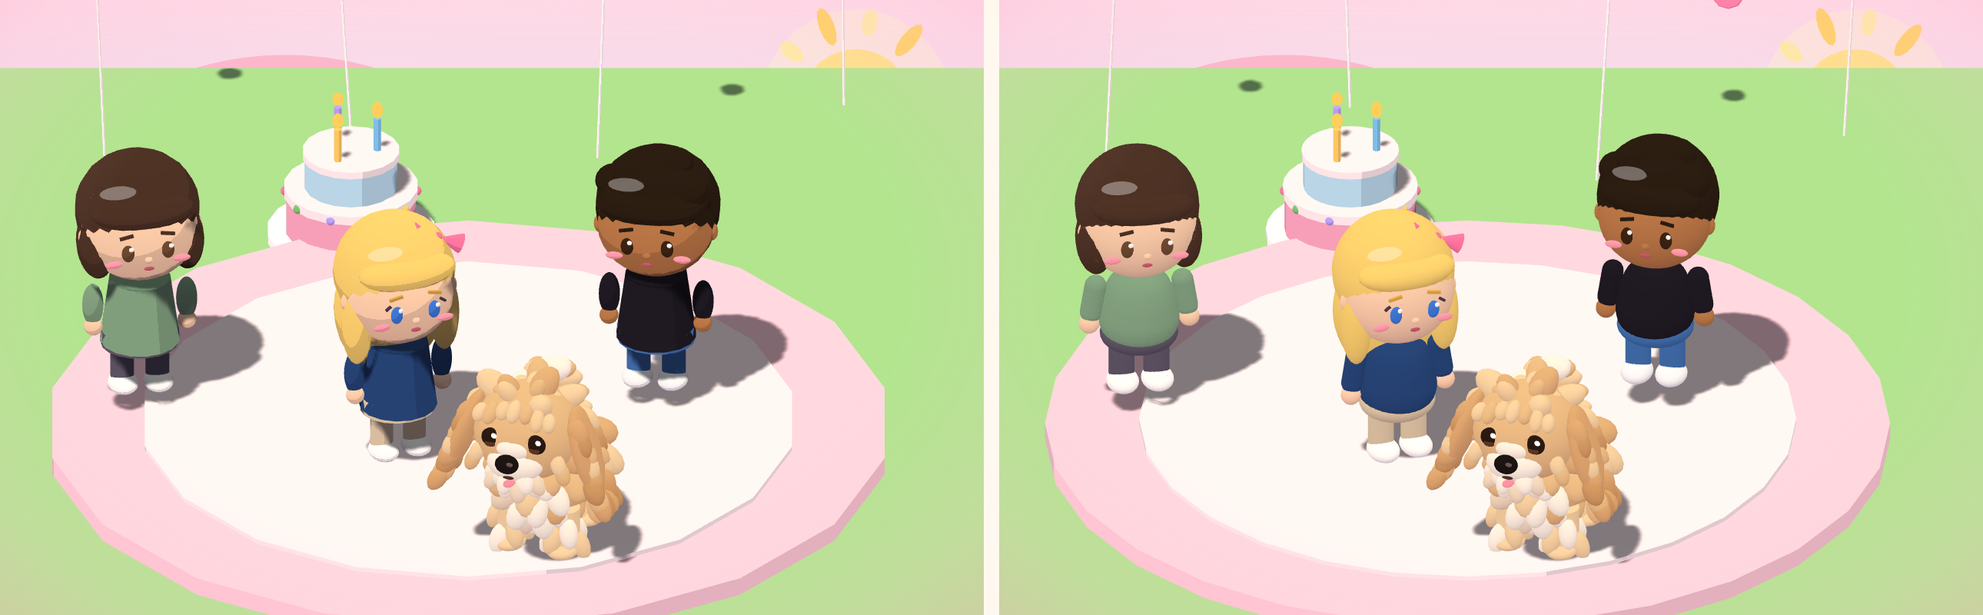
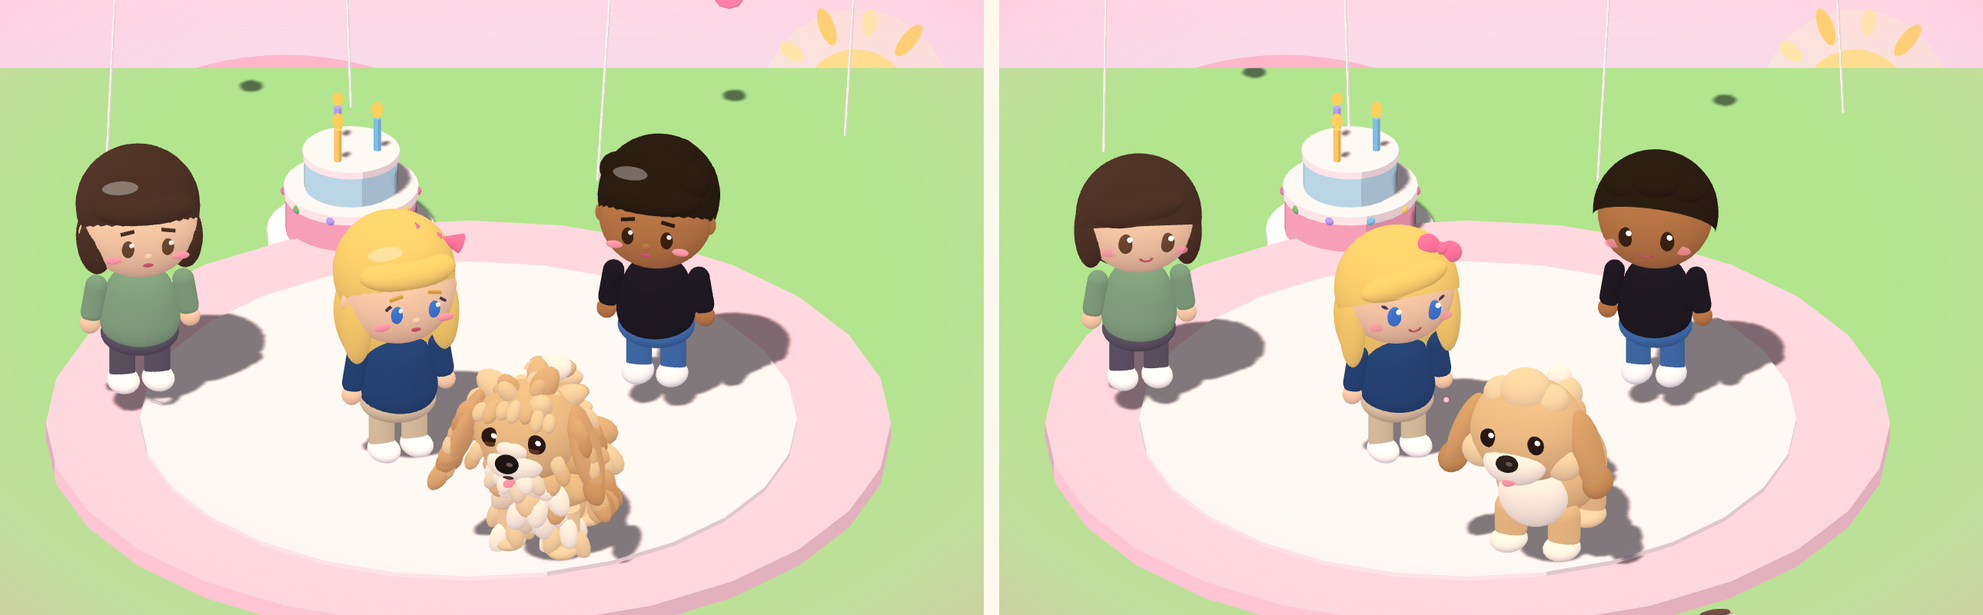
feat(v2): characters redrawn from scratch, cleaner
- People are clean vinyl-toy figures: one smooth head, a single hair
  shell with a tidy hairline, two glossy eyes, soft cheeks and a small
  smile. Noses, brows, ears and shine patches are gone.
- Hairstyles are the shell plus a few big shapes (long with a side
  fringe, bob, wavy top, bun); beanies, glasses, bow and apron rebuilt
  to match.
- Luca is rebuilt from a dozen rounded shapes instead of hundreds of
  fur tufts; the fur-tuft helpers are removed. Rig names are unchanged,
  so animation, petting, the bandana and the recoloured park dogs all
  still work.

Claude-Session: https://claude.ai/code/session_01B3Vzwri1qVRYoc2bcu2UC1

diff --git a/v2/index.html b/v2/index.html
@@ -680,44 +680,47 @@ function softSkin(g) {
   return g;
 }
 
-/* ---------------- people: chibi proportions, big head, tiny body ---------------- */
+/* ---------------- people: clean vinyl-toy figures. One smooth head, one hair shell, a simple face, a bean body ---------------- */
+// the hair shell: a sphere cap tipped back, so it makes a tidy hairline across the forehead and reaches the nape
+const G_CAP = geo('haircap', () => new THREE.SphereGeometry(0.5, 32, 14, 0, TAU, 0, Math.PI * 0.56));
+const G_SMILE = geo('smile', () => new THREE.TorusGeometry(0.5, 0.11, 6, 14, Math.PI));
+const G_BAND = geo('band', () => new THREE.TorusGeometry(0.5, 0.07, 8, 28));
 function makePerson(o) {
   const g = new THREE.Group(), body = grp(g);
   const skin = o.skin || '#f9d1b0', hair = o.hair || '#6b4a32', top = o.top || '#7f93b3', bot = o.bottom || top, shoe = o.shoe || '#fdfdfd';
+  const bare = o.style === 'dress' || o.style === 'crop';
+  // legs and shoes
   const legL = grp(body, -0.075, 0.24, 0), legR = grp(body, 0.075, 0.24, 0);
-  [legL, legR].forEach(L => { mk(capsule(0.056, 0.27), o.style === 'dress' ? skin : bot, null, [0, -0.1, 0], L); mk(G_SPH, shoe, [0.14, 0.09, 0.19], [0, -0.205, 0.03], L); });
+  [legL, legR].forEach(L => { mk(capsule(0.054, 0.27), o.style === 'dress' ? skin : bot, null, [0, -0.1, 0], L); mk(G_SPH, shoe, [0.135, 0.09, 0.19], [0, -0.205, 0.03], L); });
+  // body: a dress, a crop top over leggings, or a top over pants
   if (o.style === 'dress') mk(G_SKIRT, top, [1, 1, 1], [0, 0.36, 0], body);
-  else if (o.style === 'crop') { mk(G_TORSO, skin, [0.8, 0.9, 0.8], [0, 0.37, 0], body); mk(G_TORSO, top, [1, 0.62, 1], [0, 0.44, 0], body); mk(G_HEAD, bot, [0.32, 0.18, 0.29], [0, 0.26, 0], body); }
-  else { mk(G_TORSO, top, [1, 1, 1], [0, 0.385, 0], body); mk(G_HEAD, bot, [0.335, 0.17, 0.3], [0, 0.25, 0], body); }
-  const armL = grp(body, -0.185, 0.5, 0), armR = grp(body, 0.185, 0.5, 0);
-  [armL, armR].forEach((A, i) => { const s = grp(A); s.rotation.z = (i ? 1 : -1) * 0.16; mk(capsule(0.047, 0.22), o.style === 'dress' || o.style === 'crop' ? skin : top, null, [0, -0.075, 0], s); mk(G_SPH, skin, [0.088, 0.088, 0.088], [0, -0.19, 0.008], s); });
-  const head = grp(body, 0, 0.78, 0);
+  else if (o.style === 'crop') { mk(G_TORSO, skin, [0.78, 0.9, 0.78], [0, 0.37, 0], body); mk(G_TORSO, top, [0.95, 0.62, 0.95], [0, 0.44, 0], body); mk(G_HEAD, bot, [0.31, 0.18, 0.28], [0, 0.26, 0], body); }
+  else { mk(G_TORSO, top, [0.95, 1, 0.95], [0, 0.385, 0], body); mk(G_HEAD, bot, [0.32, 0.17, 0.29], [0, 0.25, 0], body); }
+  if (o.apron) mk(G_HEAD, o.apron, [0.24, 0.28, 0.08], [0, 0.35, 0.13], body);
+  // arms end in little mitten hands
+  const armL = grp(body, -0.178, 0.5, 0), armR = grp(body, 0.178, 0.5, 0);
+  [armL, armR].forEach((A, i) => { const s = grp(A); s.rotation.z = (i ? 1 : -1) * 0.16; mk(capsule(0.045, 0.22), bare ? skin : top, null, [0, -0.075, 0], s); mk(G_SPH, skin, [0.086, 0.086, 0.086], [0, -0.19, 0.006], s); });
+  // head and face: two glossy eyes, soft cheeks, a small smile. Nothing else
+  const head = grp(body, 0, 0.78, 0), F = { noShadow: true };
   mk(G_HEAD, skin, [0.5, 0.47, 0.47], [0, 0, 0], head);
   [-1, 1].forEach(s => {
-    mk(G_SPH, o.eye || INK, [0.055, 0.08, 0.03], [s * 0.085, -0.005, 0.222], head, { noShadow: true });
-    mk(G_SPH, '#ffffff', [0.022, 0.022, 0.012], [s * 0.085 + 0.013, 0.02, 0.236], head, { noShadow: true });
-    mk(G_SPH, '#ff9fb2', [0.075, 0.035, 0.02], [s * 0.145, -0.065, 0.2], head, { noShadow: true });
+    mk(G_SPH, o.eye || INK, [0.066, 0.092, 0.03], [s * 0.09, -0.012, 0.217], head, F);
+    mk(G_SPH, '#ffffff', [0.026, 0.026, 0.012], [s * 0.09 + 0.014, 0.014, 0.231], head, { noShadow: true, glow: true });
+    mk(G_SPH, '#ff9fb2', [0.075, 0.042, 0.016], [s * 0.152, -0.072, 0.176], head, { noShadow: true, alpha: 0.75 });
+    if (o.lashes) mk(G_SPH, INK, [0.04, 0.013, 0.012], [s * 0.128, 0.03, 0.2], head, F).rotation.z = s * 0.55;
   });
-  mk(G_SPH, '#c2566e', [0.045, 0.018, 0.012], [0, -0.085, 0.228], head, { noShadow: true });
-  // little details the low camera now shows: nose, brows, ears, lashes, hair shine
-  mk(G_SPH, skin, [0.035, 0.028, 0.03], [0, -0.04, 0.232], head, { noShadow: true });
-  [-1, 1].forEach(s => {
-    const br = mk(G_BOX, o.brow || hair, [0.06, 0.012, 0.012], [s * 0.088, 0.075, 0.222], head, { noShadow: true }); br.rotation.z = s * -0.18;
-    mk(G_SPH, skin, [0.06, 0.09, 0.05], [s * 0.235, -0.02, 0.01], head, { noShadow: true });
-    if (o.lashes) { const l = mk(G_BOX, INK, [0.03, 0.01, 0.01], [s * 0.125, 0.035, 0.224], head, { noShadow: true }); l.rotation.z = s * -0.6; }
-  });
-  mk(G_SPH, '#ffffff', [0.16, 0.05, 0.08], [-0.1, 0.24, 0.12], head, { noShadow: true, glow: true, alpha: 0.35 });
-  // hair: cap + fringe + style extras
-  mk(G_HEAD, hair, [0.53, 0.52, 0.53], [0, 0.06, -0.05], head);
-  mk(G_SPH, hair, [0.44, 0.15, 0.22], [0, 0.14, 0.12], head);
-  if (o.hairStyle === 'long') { mk(G_HEAD, hair, [0.5, 0.62, 0.32], [0, -0.13, -0.11], head); [-1, 1].forEach(s => mk(G_SPH, hair, [0.13, 0.36, 0.15], [s * 0.2, -0.13, 0.03], head)); }
-  if (o.hairStyle === 'bun') mk(G_SPH, hair, [0.2, 0.2, 0.2], [0, 0.29, -0.06], head);
-  if (o.hairStyle === 'bob') [-1, 1].forEach(s => mk(G_SPH, hair, [0.16, 0.3, 0.3], [s * 0.19, -0.07, -0.01], head));
-  if (o.hairStyle === 'fluffy') [[-0.1, 0.25, 0.02], [0.08, 0.27, -0.04], [0.16, 0.2, 0.06], [-0.18, 0.18, -0.02]].forEach(p => mk(G_SPH, hair, [0.16, 0.14, 0.16], p, head));
-  if (o.bow) { const b = grp(head, 0.17, 0.22, 0.02); b.rotation.z = -0.4; [-1, 1].forEach(s => { const c = mk(G_CONE, o.bow, [0.09, 0.12, 0.06], [s * 0.06, 0, 0], b); c.rotation.z = s * Math.PI / 2; }); mk(G_SPH, o.bow, [0.05, 0.05, 0.05], [0, 0, 0], b); }
-  if (o.glasses) [-1, 1].forEach(s => { const r = mk(geo('ring', () => new THREE.TorusGeometry(0.5, 0.12, 6, 16)), INK, [0.09, 0.09, 0.09], [s * 0.085, 0, 0.235], head, { noShadow: true }); });
-  if (o.beanie) { mk(G_SPH, o.beanie, [0.57, 0.36, 0.57], [0, 0.21, -0.04], head); mk(G_CYL, '#ffffff', [0.57, 0.08, 0.57], [0, 0.13, -0.03], head, { noShadow: true }); mk(G_SPH, '#ffffff', [0.15, 0.15, 0.15], [0, 0.4, -0.05], head); }
-  if (o.apron) mk(G_BOX, o.apron, [0.24, 0.26, 0.02], [0, 0.34, 0.16], body);
+  const smile = mk(G_SMILE, '#b5566b', [0.052, 0.034, 0.05], [0, -0.078, 0.224], head, F); smile.rotation.z = Math.PI;
+  // hair: one shell, plus a few big clean shapes per style
+  const style = o.hairStyle, swept = style === 'long' || style === 'bob' || style === 'bun';
+  const cap = mk(G_CAP, hair, [0.545, 0.525, 0.53], [0, 0.005, -0.005], head); cap.rotation.x = swept ? -0.5 : -0.72; // short cuts sit higher off the forehead
+  if (swept) { const fr = mk(G_HEAD, hair, [0.4, 0.13, 0.15], [-0.03, 0.125, 0.172], head); fr.rotation.z = 0.2; }
+  if (style === 'long') { mk(G_HEAD, hair, [0.5, 0.62, 0.3], [0, -0.14, -0.1], head); [-1, 1].forEach(s => mk(G_HEAD, hair, [0.11, 0.36, 0.14], [s * 0.218, -0.14, 0.035], head)); }
+  if (style === 'bob') { mk(G_HEAD, hair, [0.5, 0.42, 0.3], [0, -0.07, -0.09], head); [-1, 1].forEach(s => mk(G_HEAD, hair, [0.13, 0.3, 0.3], [s * 0.21, -0.07, -0.01], head)); }
+  if (style === 'bun' && !o.beanie) mk(G_HEAD, hair, [0.2, 0.2, 0.2], [0, 0.3, -0.07], head);
+  if (style === 'fluffy' && !o.beanie) [[-0.12, 0.185, 0.1, 0.2], [0.02, 0.215, 0.11, 0.23], [0.15, 0.185, 0.09, 0.19]].forEach(([x, y, z, r]) => mk(G_HEAD, hair, [r, r * 0.55, r * 0.9], [x, y, z], head)); // a soft wavy top, not a quiff tower
+  if (o.bow) { const b = grp(head, 0.165, 0.205, 0.085); b.rotation.set(-0.3, 0.3, -0.45); [-1, 1].forEach(s => mk(G_SPH, o.bow, [0.115, 0.09, 0.05], [s * 0.062, 0, 0], b)); mk(G_SPH, o.bow, [0.05, 0.055, 0.055], [0, 0, 0.012], b); }
+  if (o.glasses) { [-1, 1].forEach(s => mk(G_BAND, INK, [0.115, 0.115, 0.06], [s * 0.09, -0.01, 0.238], head, F)); mk(G_SPH, INK, [0.07, 0.014, 0.014], [0, -0.005, 0.245], head, F); }
+  if (o.beanie) { const b = grp(head, 0, 0.03, -0.01); b.rotation.x = -0.28; mk(G_CAP, o.beanie, [0.575, 0.56, 0.565], [0, 0, 0], b).scale.y = 0.5; mk(G_CAP, o.beanie, [0.575, 0.56, 0.565], [0, 0, 0], b); const band = mk(G_BAND, '#ffffff', [0.55, 0.555, 0.5], [0, 0.085, 0], b, F); band.rotation.x = Math.PI / 2; mk(G_SPH, '#ffffff', [0.14, 0.14, 0.14], [0, 0.3, 0], b); }
   g.userData = { kind: 'person', body, head, legL, legR, armL, armR, walk: 0, bounce: 0 };
   return softSkin(mergeStatic(g));
 }
@@ -728,82 +731,31 @@ const LOOK = {
 };
 function makeAnnette(outfitKey) { return makePerson(LOOK.annette(OUTFITS[outfitKey] || OUTFITS.office)); }
 
-/* ---------------- Luca the cavoodle: golden caramel shag, a cream bib and beard, a fringe over the eyes and long feathered ears ---------------- */
-const G_CURL = geo('curl', () => new THREE.SphereGeometry(0.5, 10, 8));
-// evenly spread points over a unit sphere (fibonacci), used to cover a shape in fur
-function fibPts(n) { const o = [], ga = Math.PI * (3 - Math.sqrt(5)); for (let i = 0; i < n; i++) { const y = 1 - (i + 0.5) / n * 2, r = Math.sqrt(1 - y * y), a = i * ga; o.push([Math.cos(a) * r, y, Math.sin(a) * r]); } return o; }
-const UP = new THREE.Vector3(0, 1, 0), WISP_D = new THREE.Vector3();
-// long soft strands that point outward and droop with gravity, so the coat reads shaggy rather than curly
-function wisps(parent, c, r, n, cols, size, droop, skip, seed) {
-  fibPts(n).forEach((p, i) => {
-    if (skip && skip(p)) return;
-    const h = hsh(i, n, seed || 5), s = size * (0.8 + h * 0.45), col = cols[Math.floor(hsh(i, n, 3) * cols.length)];
-    WISP_D.set(p[0] + (hsh(i, n, 9) - 0.5) * 0.5, p[1] - droop, p[2] + (hsh(i, n, 11) - 0.5) * 0.5).normalize();
-    const t = mk(G_CURL, col, [s * 0.78, s * 1.25, s * 0.8], [c[0] + p[0] * r[0] + WISP_D.x * s * 0.12, c[1] + p[1] * r[1] + WISP_D.y * s * 0.12, c[2] + p[2] * r[2] + WISP_D.z * s * 0.12], parent, { noShadow: true });
-    t.quaternion.setFromUnitVectors(UP, WISP_D);
-  });
-}
-function strand(parent, col, pos, dir, len, w) {
-  WISP_D.set(dir[0], dir[1], dir[2]).normalize();
-  const t = mk(G_CURL, col, [Math.max(w, len * 0.55), len, Math.max(w, len * 0.55) * 1.1], [pos[0] + WISP_D.x * len * 0.4, pos[1] + WISP_D.y * len * 0.4, pos[2] + WISP_D.z * len * 0.4], parent, { noShadow: true });
-  t.quaternion.setFromUnitVectors(UP, WISP_D); return t;
-}
+/* ---------------- Luca the cavoodle: a clean, rounded caramel pup with a cream bib and muzzle, a fluffy topknot, long floppy ears and a plume of a tail ---------------- */
 function buildLuca() {
   const g = new THREE.Group(), body = grp(g); body.name = 'body';
-  const A = '#e6bd88', a = '#f1d2a4', b = '#fbf3e6', d = '#dcaa74', r = '#cd9a64', C = [A, A, a, '#e0b27c'];
-  // compact torso under a shaggy coat, with a cream bib down the chest
-  mk(G_SPH, A, [0.46, 0.4, 0.56], [0, 0.32, -0.02], body);
-  wisps(body, [0, 0.34, -0.02], [0.19, 0.16, 0.24], 34, C, 0.15, 0.7);
-  wisps(body, [0, 0.3, 0.2], [0.11, 0.13, 0.06], 18, [b, b, '#efdcc2'], 0.12, 1.3, p => p[2] < -0.3, 6);
-  const legs = [];
-  [[-0.12, 0.15], [0.12, 0.15], [-0.12, -0.17], [0.12, -0.17]].forEach(([x, z], k) => {
-    const L = grp(body, x, 0.2, z);
-    mk(G_CYL, a, [0.13, 0.18, 0.13], [0, -0.07, 0], L);
-    for (let i = 0; i < 6; i++) { const an = i / 6 * TAU + k; strand(L, i % 2 ? a : (k < 2 ? b : A), [Math.cos(an) * 0.05, -0.02 - (i % 3) * 0.04, Math.sin(an) * 0.05], [Math.cos(an) * 0.4, -1, Math.sin(an) * 0.4], 0.14, 0.07); }
-    mk(G_SPH, a, [0.14, 0.07, 0.16], [0, -0.17, 0.03], L);
-    legs.push(L);
+  const A = '#e8bf8a', L = '#f3d6aa', C = '#fdf5e8', D = '#d6a46c', T = '#c48f5a', F = { noShadow: true };
+  mk(G_HEAD, A, [0.46, 0.4, 0.6], [0, 0.31, -0.02], body);
+  mk(G_HEAD, C, [0.31, 0.3, 0.24], [0, 0.29, 0.2], body);
+  const legs = [[-0.12, 0.15], [0.12, 0.15], [-0.12, -0.17], [0.12, -0.17]].map(([x, z], k) => {
+    const leg = grp(body, x, 0.2, z);
+    mk(capsule(0.07, 0.24), A, null, [0, -0.07, 0], leg); mk(G_SPH, k < 2 ? C : L, [0.16, 0.09, 0.19], [0, -0.165, 0.03], leg);
+    return leg;
   });
-  // head: a round dome under a mop of shaggy hair
-  const head = grp(body, 0, 0.64, 0.28);
-  mk(G_SPH, A, [0.47, 0.43, 0.43], [0, 0, 0], head);
-  wisps(head, [0, 0.02, -0.02], [0.2, 0.18, 0.17], 28, C, 0.13, 0.3, p => p[2] > 0.3 && p[1] < 0.55);
-  wisps(head, [0, 0.17, 0.03], [0.1, 0.04, 0.08], 8, [a, A, '#f0cf9f'], 0.08, -0.4, null, 7);
-  // short cream muzzle with a long scruffy beard
-  mk(G_SPH, b, [0.25, 0.16, 0.17], [0, -0.08, 0.16], head);
-  mk(G_SPH, b, [0.16, 0.1, 0.1], [0, 0.0, 0.18], head);
-  wisps(head, [0, -0.15, 0.15], [0.1, 0.04, 0.06], 16, [b, b, '#efdcc2'], 0.09, 1.4, p => p[2] < -0.3, 8);
-  mk(G_SPH, '#1b1513', [0.105, 0.085, 0.075], [0, -0.035, 0.265], head, { noShadow: true });
-  mk(G_SPH, '#6a5a58', [0.03, 0.02, 0.01], [0.025, -0.015, 0.3], head, { noShadow: true });
-  mk(G_SPH, '#4a2e28', [0.05, 0.012, 0.02], [0, -0.11, 0.245], head, { noShadow: true });
-  const tongue = mk(G_SPH, '#ff8fa3', [0.05, 0.024, 0.06], [0, -0.14, 0.23], head, { noShadow: true });
+  const head = grp(body, 0, 0.64, 0.27);
+  mk(G_HEAD, A, [0.5, 0.45, 0.45], [0, 0, 0], head);
+  [[0, 0.2, 0.03, 0.22], [-0.11, 0.165, 0.02, 0.16], [0.11, 0.165, 0.02, 0.16]].forEach(([x, y, z, r]) => mk(G_HEAD, L, [r, r * 0.85, r], [x, y, z], head));
   [-1, 1].forEach(s => {
-    // soft dark brown eyes peeking out under the fringe
-    mk(G_SPH, '#2a1a12', [0.09, 0.09, 0.05], [s * 0.1, 0.035, 0.18], head, { noShadow: true });
-    mk(G_SPH, '#5a3a26', [0.05, 0.03, 0.01], [s * 0.1, 0.015, 0.2], head, { noShadow: true });
-    mk(G_SPH, '#ffffff', [0.026, 0.026, 0.01], [s * 0.1 + 0.02, 0.058, 0.205], head, { noShadow: true, glow: true });
-    mk(G_SPH, '#e8a58a', [0.06, 0.028, 0.02], [s * 0.15, -0.05, 0.13], head, { noShadow: true, alpha: 0.45 });
-    // caramel cheeks and brows framing the cream muzzle
-    for (let i = 0; i < 2; i++) strand(head, i % 2 ? A : a, [s * (0.17 + i * 0.02), -0.04 - i * 0.04, 0.12], [s * 0.4, -1, 0.3], 0.1, 0.06);
+    mk(G_HEAD, L, [0.17, 0.16, 0.15], [s * 0.185, -0.095, 0.07], head);
+    mk(G_SPH, '#2a1a12', [0.078, 0.088, 0.04], [s * 0.105, 0.035, 0.198], head, F);
+    mk(G_SPH, '#ffffff', [0.026, 0.026, 0.012], [s * 0.105 + 0.017, 0.06, 0.218], head, { noShadow: true, glow: true });
   });
-  // the fringe: wispy strands falling over the brow
-  for (let i = 0; i < 7; i++) { const x = -0.15 + i * 0.05; strand(head, [a, A, '#f0cf9f'][i % 3], [x, 0.2 - Math.abs(x) * 0.25, 0.14], [x * 1.5, -0.7, 1], 0.09 + (i % 2) * 0.02, 0.06); }
-  // long feathered Cavalier ears that blend into the head fluff
-  const ears = [-1, 1].map(s => {
-    const e = grp(head, s * 0.2, 0.12, 0.0); e.rotation.z = s * 0.15;
-    mk(G_SPH, d, [0.1, 0.42, 0.22], [s * 0.02, -0.18, 0.01], e);
-    for (let i = 0; i < 14; i++) {
-      const y = -0.02 - (i % 7) * 0.055, z = (i < 7 ? 0.05 : -0.05) + (hsh(i, s + 3, 2) - 0.5) * 0.04;
-      strand(e, [d, r, A, a][i % 4], [s * 0.02, y, z], [s * 0.25, -1, (i < 7 ? 0.2 : -0.2)], 0.13, 0.08);
-    }
-    for (let i = 0; i < 4; i++) strand(e, [r, d][i % 2], [s * 0.03, -0.38, -0.06 + i * 0.04], [s * 0.2, -1, -0.15 + i * 0.1], 0.13, 0.06);
-    return e;
-  });
-  // feathered plume tail, carried high and flaring at the tip
-  const tail = grp(body, 0, 0.44, -0.27); tail.rotation.x = -0.35;
-  [[0, 0.02, 0], [0, 0.09, -0.01], [0, 0.16, 0.02], [0, 0.21, 0.08], [0, 0.23, 0.15], [0, 0.22, 0.21]].forEach((p, i) => {
-    mk(G_CURL, i % 2 ? a : A, [0.1, 0.1, 0.1], p, tail, { noShadow: true });
-    [-1, 1].forEach(s => strand(tail, i > 3 ? b : i % 2 ? A : a, p, [s * 0.9, -0.3, 0.2], 0.12 + i * 0.015, 0.05));
-  });
+  mk(G_HEAD, C, [0.28, 0.19, 0.2], [0, -0.085, 0.16], head);
+  mk(G_SPH, '#2a1f1c', [0.1, 0.075, 0.07], [0, -0.04, 0.262], head, F); mk(G_SPH, '#6a5a58', [0.03, 0.02, 0.01], [0.022, -0.02, 0.296], head, F);
+  const tongue = mk(G_SPH, '#ff8fa3', [0.06, 0.028, 0.07], [0, -0.138, 0.232], head, F);
+  const ears = [-1, 1].map(s => { const e = grp(head, s * 0.215, 0.1, 0); e.rotation.z = s * 0.15; mk(G_HEAD, D, [0.115, 0.38, 0.2], [s * 0.01, -0.17, 0], e); mk(G_HEAD, T, [0.125, 0.13, 0.185], [s * 0.015, -0.32, 0], e); return e; });
+  const tail = grp(body, 0, 0.42, -0.28); tail.rotation.x = -0.75;
+  [[A, 0.13, 0.02, 0], [L, 0.15, 0.1, 0.01], [C, 0.11, 0.17, 0.03]].forEach(([c, r, y, z]) => mk(G_HEAD, c, [r, r, r], [0, y, z], tail));
   head.name = 'head'; ears[0].name = 'earL'; ears[1].name = 'earR'; tail.name = 'tail'; legs.forEach((l, i) => l.name = 'leg' + i); tongue.name = 'tongue';
   return g;
 }
@@ -813,7 +765,7 @@ const FUR_RAMP = (() => { const d = new Uint8Array([178, 204, 226, 242, 255]); c
 function makeLuca() {
   if (!LUCA_T) {
     LUCA_T = buildLuca(); mergeStatic(LUCA_T, new Set([LUCA_T.getObjectByName('tongue')]), false);
-    // fur gets a soft, bright light ramp: shadows stay light and blend, so the tufts read as one fluffy coat instead of bubbles
+    // fur gets a soft, bright light ramp so the coat reads as one fluffy shape
     const soft = {};
     LUCA_T.traverse(o => { if (o.isMesh) o.receiveShadow = false; if (o.isMesh && o.material.isMeshToonMaterial) { const m = o.material, k = (m.vertexColors ? 'vc' : m.color.getHexString()) + m.opacity; o.material = soft[k] || (soft[k] = new THREE.MeshToonMaterial({ color: m.vertexColors ? '#ffffff' : m.color, vertexColors: m.vertexColors, gradientMap: FUR_RAMP, transparent: m.transparent, opacity: m.opacity })); } });
   }

diff --git a/v2/src/03-art.js b/v2/src/03-art.js
@@ -29,44 +29,47 @@ function softSkin(g) {
   return g;
 }
 
-/* ---------------- people: chibi proportions, big head, tiny body ---------------- */
+/* ---------------- people: clean vinyl-toy figures. One smooth head, one hair shell, a simple face, a bean body ---------------- */
+// the hair shell: a sphere cap tipped back, so it makes a tidy hairline across the forehead and reaches the nape
+const G_CAP = geo('haircap', () => new THREE.SphereGeometry(0.5, 32, 14, 0, TAU, 0, Math.PI * 0.56));
+const G_SMILE = geo('smile', () => new THREE.TorusGeometry(0.5, 0.11, 6, 14, Math.PI));
+const G_BAND = geo('band', () => new THREE.TorusGeometry(0.5, 0.07, 8, 28));
 function makePerson(o) {
   const g = new THREE.Group(), body = grp(g);
   const skin = o.skin || '#f9d1b0', hair = o.hair || '#6b4a32', top = o.top || '#7f93b3', bot = o.bottom || top, shoe = o.shoe || '#fdfdfd';
+  const bare = o.style === 'dress' || o.style === 'crop';
+  // legs and shoes
   const legL = grp(body, -0.075, 0.24, 0), legR = grp(body, 0.075, 0.24, 0);
-  [legL, legR].forEach(L => { mk(capsule(0.056, 0.27), o.style === 'dress' ? skin : bot, null, [0, -0.1, 0], L); mk(G_SPH, shoe, [0.14, 0.09, 0.19], [0, -0.205, 0.03], L); });
+  [legL, legR].forEach(L => { mk(capsule(0.054, 0.27), o.style === 'dress' ? skin : bot, null, [0, -0.1, 0], L); mk(G_SPH, shoe, [0.135, 0.09, 0.19], [0, -0.205, 0.03], L); });
+  // body: a dress, a crop top over leggings, or a top over pants
   if (o.style === 'dress') mk(G_SKIRT, top, [1, 1, 1], [0, 0.36, 0], body);
-  else if (o.style === 'crop') { mk(G_TORSO, skin, [0.8, 0.9, 0.8], [0, 0.37, 0], body); mk(G_TORSO, top, [1, 0.62, 1], [0, 0.44, 0], body); mk(G_HEAD, bot, [0.32, 0.18, 0.29], [0, 0.26, 0], body); }
-  else { mk(G_TORSO, top, [1, 1, 1], [0, 0.385, 0], body); mk(G_HEAD, bot, [0.335, 0.17, 0.3], [0, 0.25, 0], body); }
-  const armL = grp(body, -0.185, 0.5, 0), armR = grp(body, 0.185, 0.5, 0);
-  [armL, armR].forEach((A, i) => { const s = grp(A); s.rotation.z = (i ? 1 : -1) * 0.16; mk(capsule(0.047, 0.22), o.style === 'dress' || o.style === 'crop' ? skin : top, null, [0, -0.075, 0], s); mk(G_SPH, skin, [0.088, 0.088, 0.088], [0, -0.19, 0.008], s); });
-  const head = grp(body, 0, 0.78, 0);
+  else if (o.style === 'crop') { mk(G_TORSO, skin, [0.78, 0.9, 0.78], [0, 0.37, 0], body); mk(G_TORSO, top, [0.95, 0.62, 0.95], [0, 0.44, 0], body); mk(G_HEAD, bot, [0.31, 0.18, 0.28], [0, 0.26, 0], body); }
+  else { mk(G_TORSO, top, [0.95, 1, 0.95], [0, 0.385, 0], body); mk(G_HEAD, bot, [0.32, 0.17, 0.29], [0, 0.25, 0], body); }
+  if (o.apron) mk(G_HEAD, o.apron, [0.24, 0.28, 0.08], [0, 0.35, 0.13], body);
+  // arms end in little mitten hands
+  const armL = grp(body, -0.178, 0.5, 0), armR = grp(body, 0.178, 0.5, 0);
+  [armL, armR].forEach((A, i) => { const s = grp(A); s.rotation.z = (i ? 1 : -1) * 0.16; mk(capsule(0.045, 0.22), bare ? skin : top, null, [0, -0.075, 0], s); mk(G_SPH, skin, [0.086, 0.086, 0.086], [0, -0.19, 0.006], s); });
+  // head and face: two glossy eyes, soft cheeks, a small smile. Nothing else
+  const head = grp(body, 0, 0.78, 0), F = { noShadow: true };
   mk(G_HEAD, skin, [0.5, 0.47, 0.47], [0, 0, 0], head);
   [-1, 1].forEach(s => {
-    mk(G_SPH, o.eye || INK, [0.055, 0.08, 0.03], [s * 0.085, -0.005, 0.222], head, { noShadow: true });
-    mk(G_SPH, '#ffffff', [0.022, 0.022, 0.012], [s * 0.085 + 0.013, 0.02, 0.236], head, { noShadow: true });
-    mk(G_SPH, '#ff9fb2', [0.075, 0.035, 0.02], [s * 0.145, -0.065, 0.2], head, { noShadow: true });
+    mk(G_SPH, o.eye || INK, [0.066, 0.092, 0.03], [s * 0.09, -0.012, 0.217], head, F);
+    mk(G_SPH, '#ffffff', [0.026, 0.026, 0.012], [s * 0.09 + 0.014, 0.014, 0.231], head, { noShadow: true, glow: true });
+    mk(G_SPH, '#ff9fb2', [0.075, 0.042, 0.016], [s * 0.152, -0.072, 0.176], head, { noShadow: true, alpha: 0.75 });
+    if (o.lashes) mk(G_SPH, INK, [0.04, 0.013, 0.012], [s * 0.128, 0.03, 0.2], head, F).rotation.z = s * 0.55;
   });
-  mk(G_SPH, '#c2566e', [0.045, 0.018, 0.012], [0, -0.085, 0.228], head, { noShadow: true });
-  // little details the low camera now shows: nose, brows, ears, lashes, hair shine
-  mk(G_SPH, skin, [0.035, 0.028, 0.03], [0, -0.04, 0.232], head, { noShadow: true });
-  [-1, 1].forEach(s => {
-    const br = mk(G_BOX, o.brow || hair, [0.06, 0.012, 0.012], [s * 0.088, 0.075, 0.222], head, { noShadow: true }); br.rotation.z = s * -0.18;
-    mk(G_SPH, skin, [0.06, 0.09, 0.05], [s * 0.235, -0.02, 0.01], head, { noShadow: true });
-    if (o.lashes) { const l = mk(G_BOX, INK, [0.03, 0.01, 0.01], [s * 0.125, 0.035, 0.224], head, { noShadow: true }); l.rotation.z = s * -0.6; }
-  });
-  mk(G_SPH, '#ffffff', [0.16, 0.05, 0.08], [-0.1, 0.24, 0.12], head, { noShadow: true, glow: true, alpha: 0.35 });
-  // hair: cap + fringe + style extras
-  mk(G_HEAD, hair, [0.53, 0.52, 0.53], [0, 0.06, -0.05], head);
-  mk(G_SPH, hair, [0.44, 0.15, 0.22], [0, 0.14, 0.12], head);
-  if (o.hairStyle === 'long') { mk(G_HEAD, hair, [0.5, 0.62, 0.32], [0, -0.13, -0.11], head); [-1, 1].forEach(s => mk(G_SPH, hair, [0.13, 0.36, 0.15], [s * 0.2, -0.13, 0.03], head)); }
-  if (o.hairStyle === 'bun') mk(G_SPH, hair, [0.2, 0.2, 0.2], [0, 0.29, -0.06], head);
-  if (o.hairStyle === 'bob') [-1, 1].forEach(s => mk(G_SPH, hair, [0.16, 0.3, 0.3], [s * 0.19, -0.07, -0.01], head));
-  if (o.hairStyle === 'fluffy') [[-0.1, 0.25, 0.02], [0.08, 0.27, -0.04], [0.16, 0.2, 0.06], [-0.18, 0.18, -0.02]].forEach(p => mk(G_SPH, hair, [0.16, 0.14, 0.16], p, head));
-  if (o.bow) { const b = grp(head, 0.17, 0.22, 0.02); b.rotation.z = -0.4; [-1, 1].forEach(s => { const c = mk(G_CONE, o.bow, [0.09, 0.12, 0.06], [s * 0.06, 0, 0], b); c.rotation.z = s * Math.PI / 2; }); mk(G_SPH, o.bow, [0.05, 0.05, 0.05], [0, 0, 0], b); }
-  if (o.glasses) [-1, 1].forEach(s => { const r = mk(geo('ring', () => new THREE.TorusGeometry(0.5, 0.12, 6, 16)), INK, [0.09, 0.09, 0.09], [s * 0.085, 0, 0.235], head, { noShadow: true }); });
-  if (o.beanie) { mk(G_SPH, o.beanie, [0.57, 0.36, 0.57], [0, 0.21, -0.04], head); mk(G_CYL, '#ffffff', [0.57, 0.08, 0.57], [0, 0.13, -0.03], head, { noShadow: true }); mk(G_SPH, '#ffffff', [0.15, 0.15, 0.15], [0, 0.4, -0.05], head); }
-  if (o.apron) mk(G_BOX, o.apron, [0.24, 0.26, 0.02], [0, 0.34, 0.16], body);
+  const smile = mk(G_SMILE, '#b5566b', [0.052, 0.034, 0.05], [0, -0.078, 0.224], head, F); smile.rotation.z = Math.PI;
+  // hair: one shell, plus a few big clean shapes per style
+  const style = o.hairStyle, swept = style === 'long' || style === 'bob' || style === 'bun';
+  const cap = mk(G_CAP, hair, [0.545, 0.525, 0.53], [0, 0.005, -0.005], head); cap.rotation.x = swept ? -0.5 : -0.72; // short cuts sit higher off the forehead
+  if (swept) { const fr = mk(G_HEAD, hair, [0.4, 0.13, 0.15], [-0.03, 0.125, 0.172], head); fr.rotation.z = 0.2; }
+  if (style === 'long') { mk(G_HEAD, hair, [0.5, 0.62, 0.3], [0, -0.14, -0.1], head); [-1, 1].forEach(s => mk(G_HEAD, hair, [0.11, 0.36, 0.14], [s * 0.218, -0.14, 0.035], head)); }
+  if (style === 'bob') { mk(G_HEAD, hair, [0.5, 0.42, 0.3], [0, -0.07, -0.09], head); [-1, 1].forEach(s => mk(G_HEAD, hair, [0.13, 0.3, 0.3], [s * 0.21, -0.07, -0.01], head)); }
+  if (style === 'bun' && !o.beanie) mk(G_HEAD, hair, [0.2, 0.2, 0.2], [0, 0.3, -0.07], head);
+  if (style === 'fluffy' && !o.beanie) [[-0.12, 0.185, 0.1, 0.2], [0.02, 0.215, 0.11, 0.23], [0.15, 0.185, 0.09, 0.19]].forEach(([x, y, z, r]) => mk(G_HEAD, hair, [r, r * 0.55, r * 0.9], [x, y, z], head)); // a soft wavy top, not a quiff tower
+  if (o.bow) { const b = grp(head, 0.165, 0.205, 0.085); b.rotation.set(-0.3, 0.3, -0.45); [-1, 1].forEach(s => mk(G_SPH, o.bow, [0.115, 0.09, 0.05], [s * 0.062, 0, 0], b)); mk(G_SPH, o.bow, [0.05, 0.055, 0.055], [0, 0, 0.012], b); }
+  if (o.glasses) { [-1, 1].forEach(s => mk(G_BAND, INK, [0.115, 0.115, 0.06], [s * 0.09, -0.01, 0.238], head, F)); mk(G_SPH, INK, [0.07, 0.014, 0.014], [0, -0.005, 0.245], head, F); }
+  if (o.beanie) { const b = grp(head, 0, 0.03, -0.01); b.rotation.x = -0.28; mk(G_CAP, o.beanie, [0.575, 0.56, 0.565], [0, 0, 0], b).scale.y = 0.5; mk(G_CAP, o.beanie, [0.575, 0.56, 0.565], [0, 0, 0], b); const band = mk(G_BAND, '#ffffff', [0.55, 0.555, 0.5], [0, 0.085, 0], b, F); band.rotation.x = Math.PI / 2; mk(G_SPH, '#ffffff', [0.14, 0.14, 0.14], [0, 0.3, 0], b); }
   g.userData = { kind: 'person', body, head, legL, legR, armL, armR, walk: 0, bounce: 0 };
   return softSkin(mergeStatic(g));
 }
@@ -77,82 +80,31 @@ const LOOK = {
 };
 function makeAnnette(outfitKey) { return makePerson(LOOK.annette(OUTFITS[outfitKey] || OUTFITS.office)); }
 
-/* ---------------- Luca the cavoodle: golden caramel shag, a cream bib and beard, a fringe over the eyes and long feathered ears ---------------- */
-const G_CURL = geo('curl', () => new THREE.SphereGeometry(0.5, 10, 8));
-// evenly spread points over a unit sphere (fibonacci), used to cover a shape in fur
-function fibPts(n) { const o = [], ga = Math.PI * (3 - Math.sqrt(5)); for (let i = 0; i < n; i++) { const y = 1 - (i + 0.5) / n * 2, r = Math.sqrt(1 - y * y), a = i * ga; o.push([Math.cos(a) * r, y, Math.sin(a) * r]); } return o; }
-const UP = new THREE.Vector3(0, 1, 0), WISP_D = new THREE.Vector3();
-// long soft strands that point outward and droop with gravity, so the coat reads shaggy rather than curly
-function wisps(parent, c, r, n, cols, size, droop, skip, seed) {
-  fibPts(n).forEach((p, i) => {
-    if (skip && skip(p)) return;
-    const h = hsh(i, n, seed || 5), s = size * (0.8 + h * 0.45), col = cols[Math.floor(hsh(i, n, 3) * cols.length)];
-    WISP_D.set(p[0] + (hsh(i, n, 9) - 0.5) * 0.5, p[1] - droop, p[2] + (hsh(i, n, 11) - 0.5) * 0.5).normalize();
-    const t = mk(G_CURL, col, [s * 0.78, s * 1.25, s * 0.8], [c[0] + p[0] * r[0] + WISP_D.x * s * 0.12, c[1] + p[1] * r[1] + WISP_D.y * s * 0.12, c[2] + p[2] * r[2] + WISP_D.z * s * 0.12], parent, { noShadow: true });
-    t.quaternion.setFromUnitVectors(UP, WISP_D);
-  });
-}
-function strand(parent, col, pos, dir, len, w) {
-  WISP_D.set(dir[0], dir[1], dir[2]).normalize();
-  const t = mk(G_CURL, col, [Math.max(w, len * 0.55), len, Math.max(w, len * 0.55) * 1.1], [pos[0] + WISP_D.x * len * 0.4, pos[1] + WISP_D.y * len * 0.4, pos[2] + WISP_D.z * len * 0.4], parent, { noShadow: true });
-  t.quaternion.setFromUnitVectors(UP, WISP_D); return t;
-}
+/* ---------------- Luca the cavoodle: a clean, rounded caramel pup with a cream bib and muzzle, a fluffy topknot, long floppy ears and a plume of a tail ---------------- */
 function buildLuca() {
   const g = new THREE.Group(), body = grp(g); body.name = 'body';
-  const A = '#e6bd88', a = '#f1d2a4', b = '#fbf3e6', d = '#dcaa74', r = '#cd9a64', C = [A, A, a, '#e0b27c'];
-  // compact torso under a shaggy coat, with a cream bib down the chest
-  mk(G_SPH, A, [0.46, 0.4, 0.56], [0, 0.32, -0.02], body);
-  wisps(body, [0, 0.34, -0.02], [0.19, 0.16, 0.24], 34, C, 0.15, 0.7);
-  wisps(body, [0, 0.3, 0.2], [0.11, 0.13, 0.06], 18, [b, b, '#efdcc2'], 0.12, 1.3, p => p[2] < -0.3, 6);
-  const legs = [];
-  [[-0.12, 0.15], [0.12, 0.15], [-0.12, -0.17], [0.12, -0.17]].forEach(([x, z], k) => {
-    const L = grp(body, x, 0.2, z);
-    mk(G_CYL, a, [0.13, 0.18, 0.13], [0, -0.07, 0], L);
-    for (let i = 0; i < 6; i++) { const an = i / 6 * TAU + k; strand(L, i % 2 ? a : (k < 2 ? b : A), [Math.cos(an) * 0.05, -0.02 - (i % 3) * 0.04, Math.sin(an) * 0.05], [Math.cos(an) * 0.4, -1, Math.sin(an) * 0.4], 0.14, 0.07); }
-    mk(G_SPH, a, [0.14, 0.07, 0.16], [0, -0.17, 0.03], L);
-    legs.push(L);
+  const A = '#e8bf8a', L = '#f3d6aa', C = '#fdf5e8', D = '#d6a46c', T = '#c48f5a', F = { noShadow: true };
+  mk(G_HEAD, A, [0.46, 0.4, 0.6], [0, 0.31, -0.02], body);
+  mk(G_HEAD, C, [0.31, 0.3, 0.24], [0, 0.29, 0.2], body);
+  const legs = [[-0.12, 0.15], [0.12, 0.15], [-0.12, -0.17], [0.12, -0.17]].map(([x, z], k) => {
+    const leg = grp(body, x, 0.2, z);
+    mk(capsule(0.07, 0.24), A, null, [0, -0.07, 0], leg); mk(G_SPH, k < 2 ? C : L, [0.16, 0.09, 0.19], [0, -0.165, 0.03], leg);
+    return leg;
   });
-  // head: a round dome under a mop of shaggy hair
-  const head = grp(body, 0, 0.64, 0.28);
-  mk(G_SPH, A, [0.47, 0.43, 0.43], [0, 0, 0], head);
-  wisps(head, [0, 0.02, -0.02], [0.2, 0.18, 0.17], 28, C, 0.13, 0.3, p => p[2] > 0.3 && p[1] < 0.55);
-  wisps(head, [0, 0.17, 0.03], [0.1, 0.04, 0.08], 8, [a, A, '#f0cf9f'], 0.08, -0.4, null, 7);
-  // short cream muzzle with a long scruffy beard
-  mk(G_SPH, b, [0.25, 0.16, 0.17], [0, -0.08, 0.16], head);
-  mk(G_SPH, b, [0.16, 0.1, 0.1], [0, 0.0, 0.18], head);
-  wisps(head, [0, -0.15, 0.15], [0.1, 0.04, 0.06], 16, [b, b, '#efdcc2'], 0.09, 1.4, p => p[2] < -0.3, 8);
-  mk(G_SPH, '#1b1513', [0.105, 0.085, 0.075], [0, -0.035, 0.265], head, { noShadow: true });
-  mk(G_SPH, '#6a5a58', [0.03, 0.02, 0.01], [0.025, -0.015, 0.3], head, { noShadow: true });
-  mk(G_SPH, '#4a2e28', [0.05, 0.012, 0.02], [0, -0.11, 0.245], head, { noShadow: true });
-  const tongue = mk(G_SPH, '#ff8fa3', [0.05, 0.024, 0.06], [0, -0.14, 0.23], head, { noShadow: true });
+  const head = grp(body, 0, 0.64, 0.27);
+  mk(G_HEAD, A, [0.5, 0.45, 0.45], [0, 0, 0], head);
+  [[0, 0.2, 0.03, 0.22], [-0.11, 0.165, 0.02, 0.16], [0.11, 0.165, 0.02, 0.16]].forEach(([x, y, z, r]) => mk(G_HEAD, L, [r, r * 0.85, r], [x, y, z], head));
   [-1, 1].forEach(s => {
-    // soft dark brown eyes peeking out under the fringe
-    mk(G_SPH, '#2a1a12', [0.09, 0.09, 0.05], [s * 0.1, 0.035, 0.18], head, { noShadow: true });
-    mk(G_SPH, '#5a3a26', [0.05, 0.03, 0.01], [s * 0.1, 0.015, 0.2], head, { noShadow: true });
-    mk(G_SPH, '#ffffff', [0.026, 0.026, 0.01], [s * 0.1 + 0.02, 0.058, 0.205], head, { noShadow: true, glow: true });
-    mk(G_SPH, '#e8a58a', [0.06, 0.028, 0.02], [s * 0.15, -0.05, 0.13], head, { noShadow: true, alpha: 0.45 });
-    // caramel cheeks and brows framing the cream muzzle
-    for (let i = 0; i < 2; i++) strand(head, i % 2 ? A : a, [s * (0.17 + i * 0.02), -0.04 - i * 0.04, 0.12], [s * 0.4, -1, 0.3], 0.1, 0.06);
+    mk(G_HEAD, L, [0.17, 0.16, 0.15], [s * 0.185, -0.095, 0.07], head);
+    mk(G_SPH, '#2a1a12', [0.078, 0.088, 0.04], [s * 0.105, 0.035, 0.198], head, F);
+    mk(G_SPH, '#ffffff', [0.026, 0.026, 0.012], [s * 0.105 + 0.017, 0.06, 0.218], head, { noShadow: true, glow: true });
   });
-  // the fringe: wispy strands falling over the brow
-  for (let i = 0; i < 7; i++) { const x = -0.15 + i * 0.05; strand(head, [a, A, '#f0cf9f'][i % 3], [x, 0.2 - Math.abs(x) * 0.25, 0.14], [x * 1.5, -0.7, 1], 0.09 + (i % 2) * 0.02, 0.06); }
-  // long feathered Cavalier ears that blend into the head fluff
-  const ears = [-1, 1].map(s => {
-    const e = grp(head, s * 0.2, 0.12, 0.0); e.rotation.z = s * 0.15;
-    mk(G_SPH, d, [0.1, 0.42, 0.22], [s * 0.02, -0.18, 0.01], e);
-    for (let i = 0; i < 14; i++) {
-      const y = -0.02 - (i % 7) * 0.055, z = (i < 7 ? 0.05 : -0.05) + (hsh(i, s + 3, 2) - 0.5) * 0.04;
-      strand(e, [d, r, A, a][i % 4], [s * 0.02, y, z], [s * 0.25, -1, (i < 7 ? 0.2 : -0.2)], 0.13, 0.08);
-    }
-    for (let i = 0; i < 4; i++) strand(e, [r, d][i % 2], [s * 0.03, -0.38, -0.06 + i * 0.04], [s * 0.2, -1, -0.15 + i * 0.1], 0.13, 0.06);
-    return e;
-  });
-  // feathered plume tail, carried high and flaring at the tip
-  const tail = grp(body, 0, 0.44, -0.27); tail.rotation.x = -0.35;
-  [[0, 0.02, 0], [0, 0.09, -0.01], [0, 0.16, 0.02], [0, 0.21, 0.08], [0, 0.23, 0.15], [0, 0.22, 0.21]].forEach((p, i) => {
-    mk(G_CURL, i % 2 ? a : A, [0.1, 0.1, 0.1], p, tail, { noShadow: true });
-    [-1, 1].forEach(s => strand(tail, i > 3 ? b : i % 2 ? A : a, p, [s * 0.9, -0.3, 0.2], 0.12 + i * 0.015, 0.05));
-  });
+  mk(G_HEAD, C, [0.28, 0.19, 0.2], [0, -0.085, 0.16], head);
+  mk(G_SPH, '#2a1f1c', [0.1, 0.075, 0.07], [0, -0.04, 0.262], head, F); mk(G_SPH, '#6a5a58', [0.03, 0.02, 0.01], [0.022, -0.02, 0.296], head, F);
+  const tongue = mk(G_SPH, '#ff8fa3', [0.06, 0.028, 0.07], [0, -0.138, 0.232], head, F);
+  const ears = [-1, 1].map(s => { const e = grp(head, s * 0.215, 0.1, 0); e.rotation.z = s * 0.15; mk(G_HEAD, D, [0.115, 0.38, 0.2], [s * 0.01, -0.17, 0], e); mk(G_HEAD, T, [0.125, 0.13, 0.185], [s * 0.015, -0.32, 0], e); return e; });
+  const tail = grp(body, 0, 0.42, -0.28); tail.rotation.x = -0.75;
+  [[A, 0.13, 0.02, 0], [L, 0.15, 0.1, 0.01], [C, 0.11, 0.17, 0.03]].forEach(([c, r, y, z]) => mk(G_HEAD, c, [r, r, r], [0, y, z], tail));
   head.name = 'head'; ears[0].name = 'earL'; ears[1].name = 'earR'; tail.name = 'tail'; legs.forEach((l, i) => l.name = 'leg' + i); tongue.name = 'tongue';
   return g;
 }
@@ -162,7 +114,7 @@ const FUR_RAMP = (() => { const d = new Uint8Array([178, 204, 226, 242, 255]); c
 function makeLuca() {
   if (!LUCA_T) {
     LUCA_T = buildLuca(); mergeStatic(LUCA_T, new Set([LUCA_T.getObjectByName('tongue')]), false);
-    // fur gets a soft, bright light ramp: shadows stay light and blend, so the tufts read as one fluffy coat instead of bubbles
+    // fur gets a soft, bright light ramp so the coat reads as one fluffy shape
     const soft = {};
     LUCA_T.traverse(o => { if (o.isMesh) o.receiveShadow = false; if (o.isMesh && o.material.isMeshToonMaterial) { const m = o.material, k = (m.vertexColors ? 'vc' : m.color.getHexString()) + m.opacity; o.material = soft[k] || (soft[k] = new THREE.MeshToonMaterial({ color: m.vertexColors ? '#ffffff' : m.color, vertexColors: m.vertexColors, gradientMap: FUR_RAMP, transparent: m.transparent, opacity: m.opacity })); } });
   }

diff --git a/CHANGELOG.md b/CHANGELOG.md
@@ -8,7 +8,12 @@ Everything here is in `v2/` (the 3D diorama edition). The original pixel game at
 - A third holiday: drive down the south coast, hire a board and catch three waves, defend lunch from The Chip Thief, build a sandcastle, explore the rock pool, then pick an arvo and a dinner. New memories card, two new badges (Surf's up, Chip defender).
 - Content lives in `CONFIG.holiday.bt` in `v2/src/09-holiday.js`.
 
-### Smoother characters
+### Characters redrawn from scratch
+- People are clean vinyl-toy figures: one smooth head, a single hair shell with a tidy hairline, two glossy eyes, soft cheeks and a small smile. Noses, brows, ears and hair-shine patches are gone.
+- Each hairstyle is the shell plus a few big shapes (Annette's long hair and side fringe, Mum's bob, Paulo's wavy top, buns, beanies). Annette keeps her blue eyes, lashes and pink bow.
+- Luca is rebuilt from a dozen rounded shapes instead of hundreds of fur tufts: caramel body, cream bib, muzzle and paws, a fluffy topknot, long floppy ears and a plume tail. The other park dogs follow.
+
+### Smoother shading and shapes
 - People are no longer stacked cylinders: torsos and dresses are turned from smooth curves, limbs are rounded capsules, and heads and hair use a finer sphere.
 - Characters, the cat and the birds are shaded on a soft ramp instead of hard toon bands, and no longer get shadow lines across their faces.
 - Round props (rugs, tables, cakes, cones) have more sides, so their edges read as curves.
